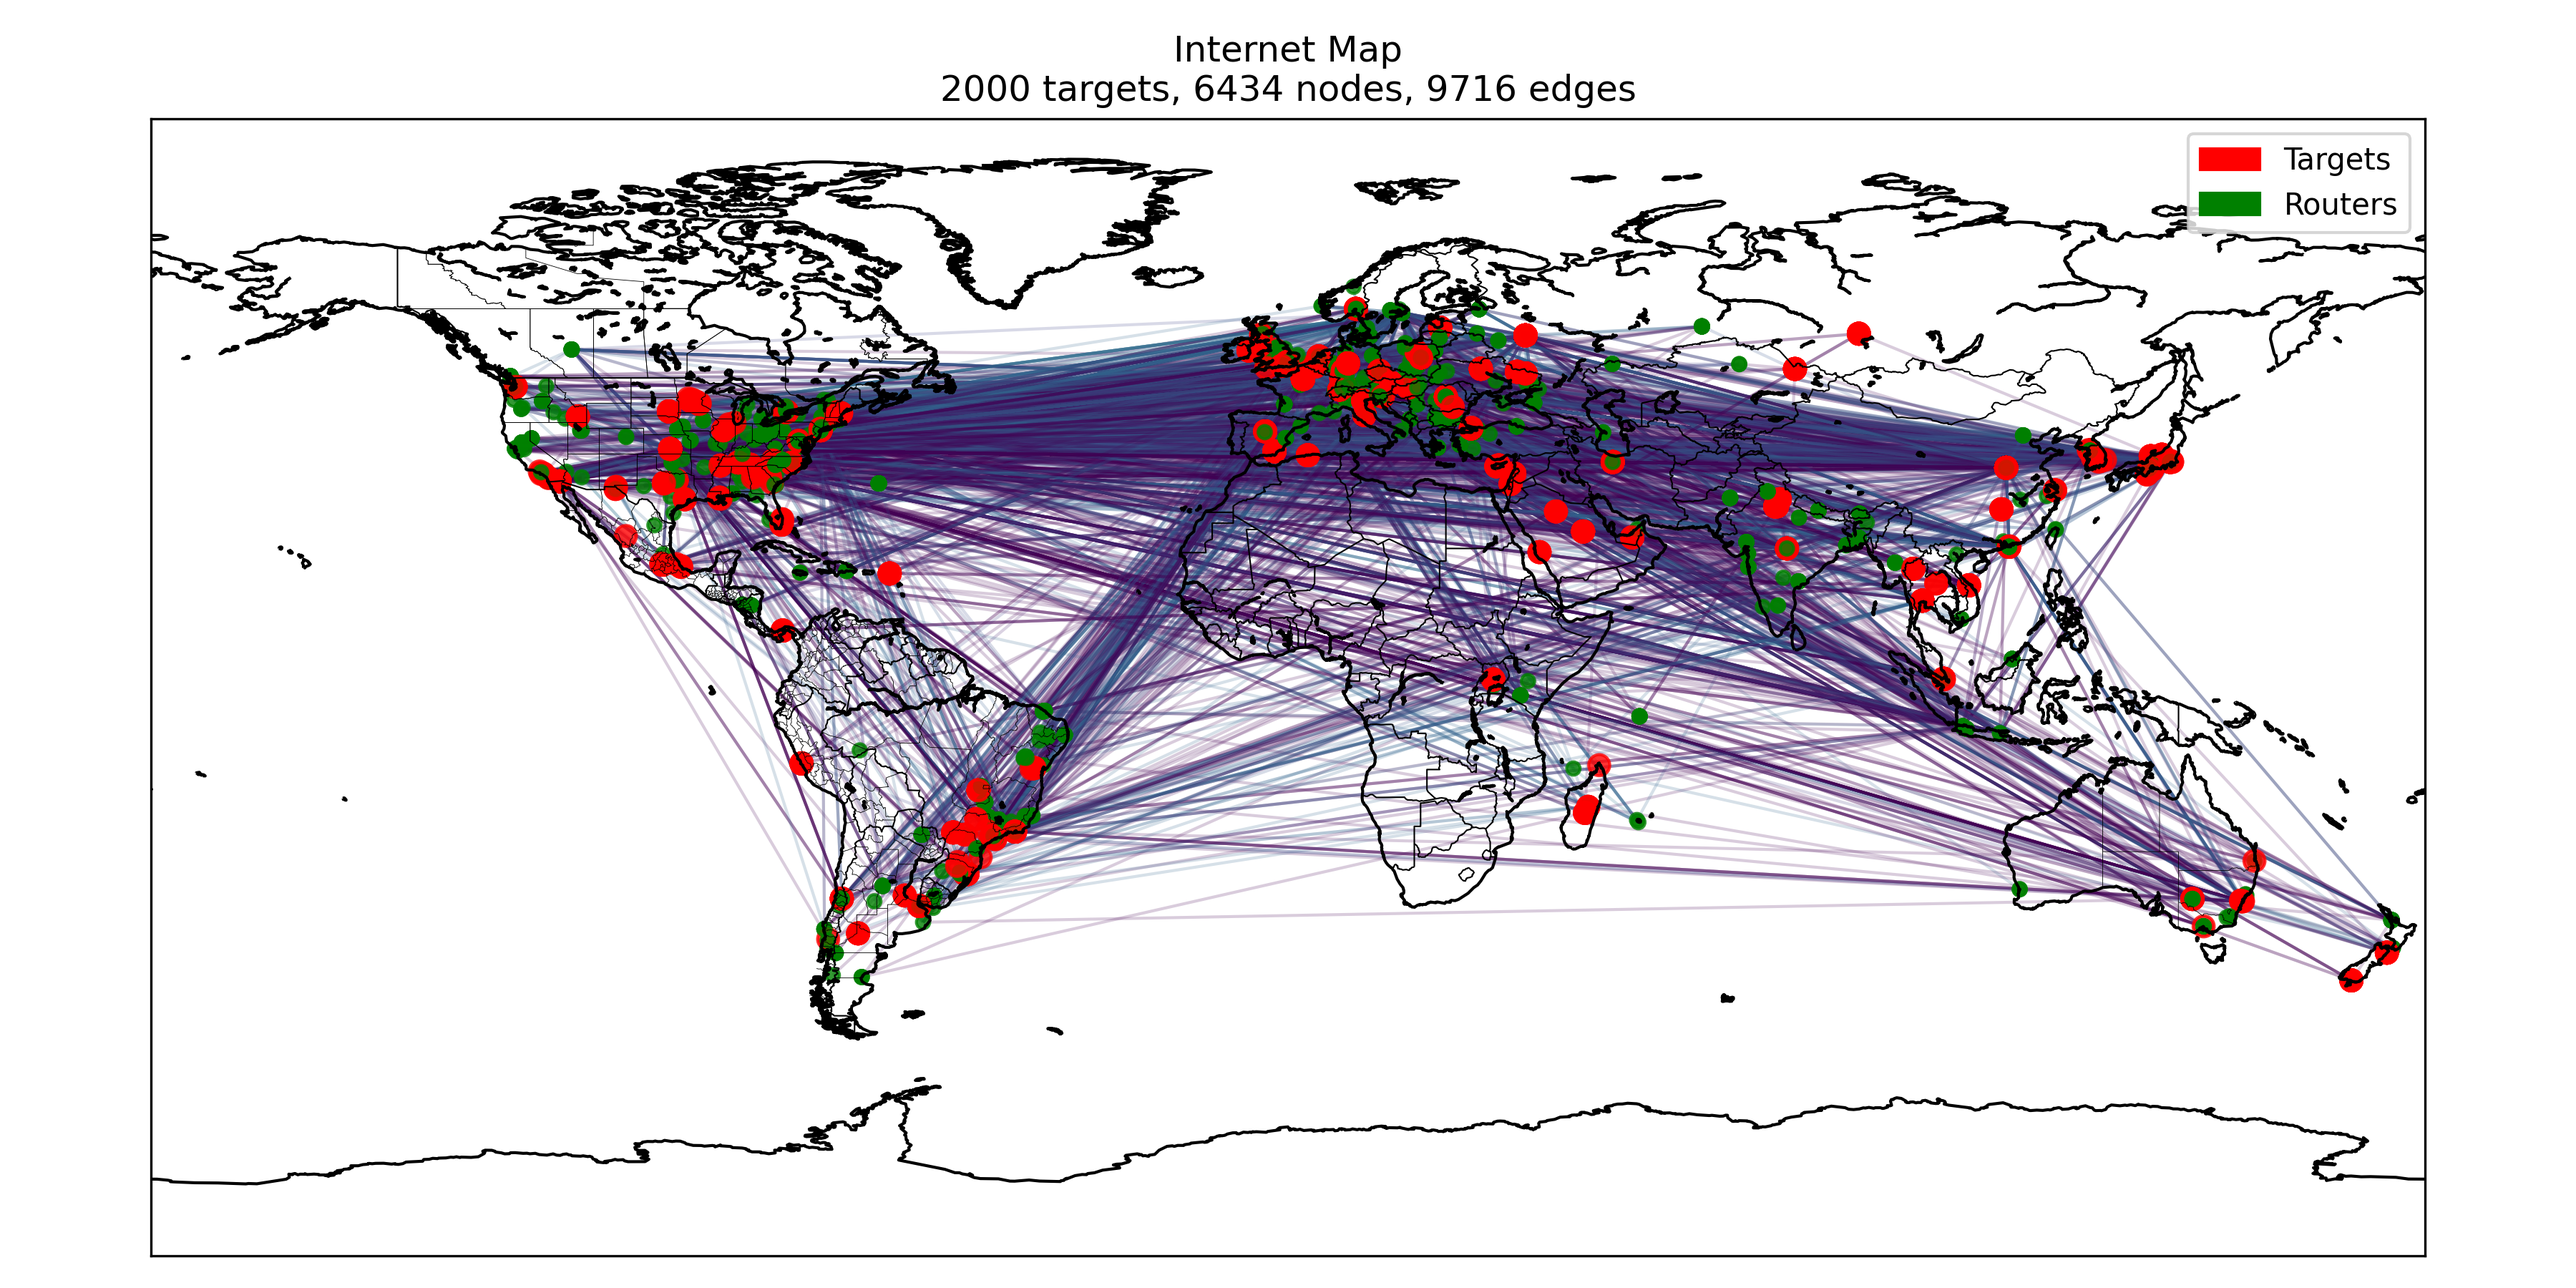
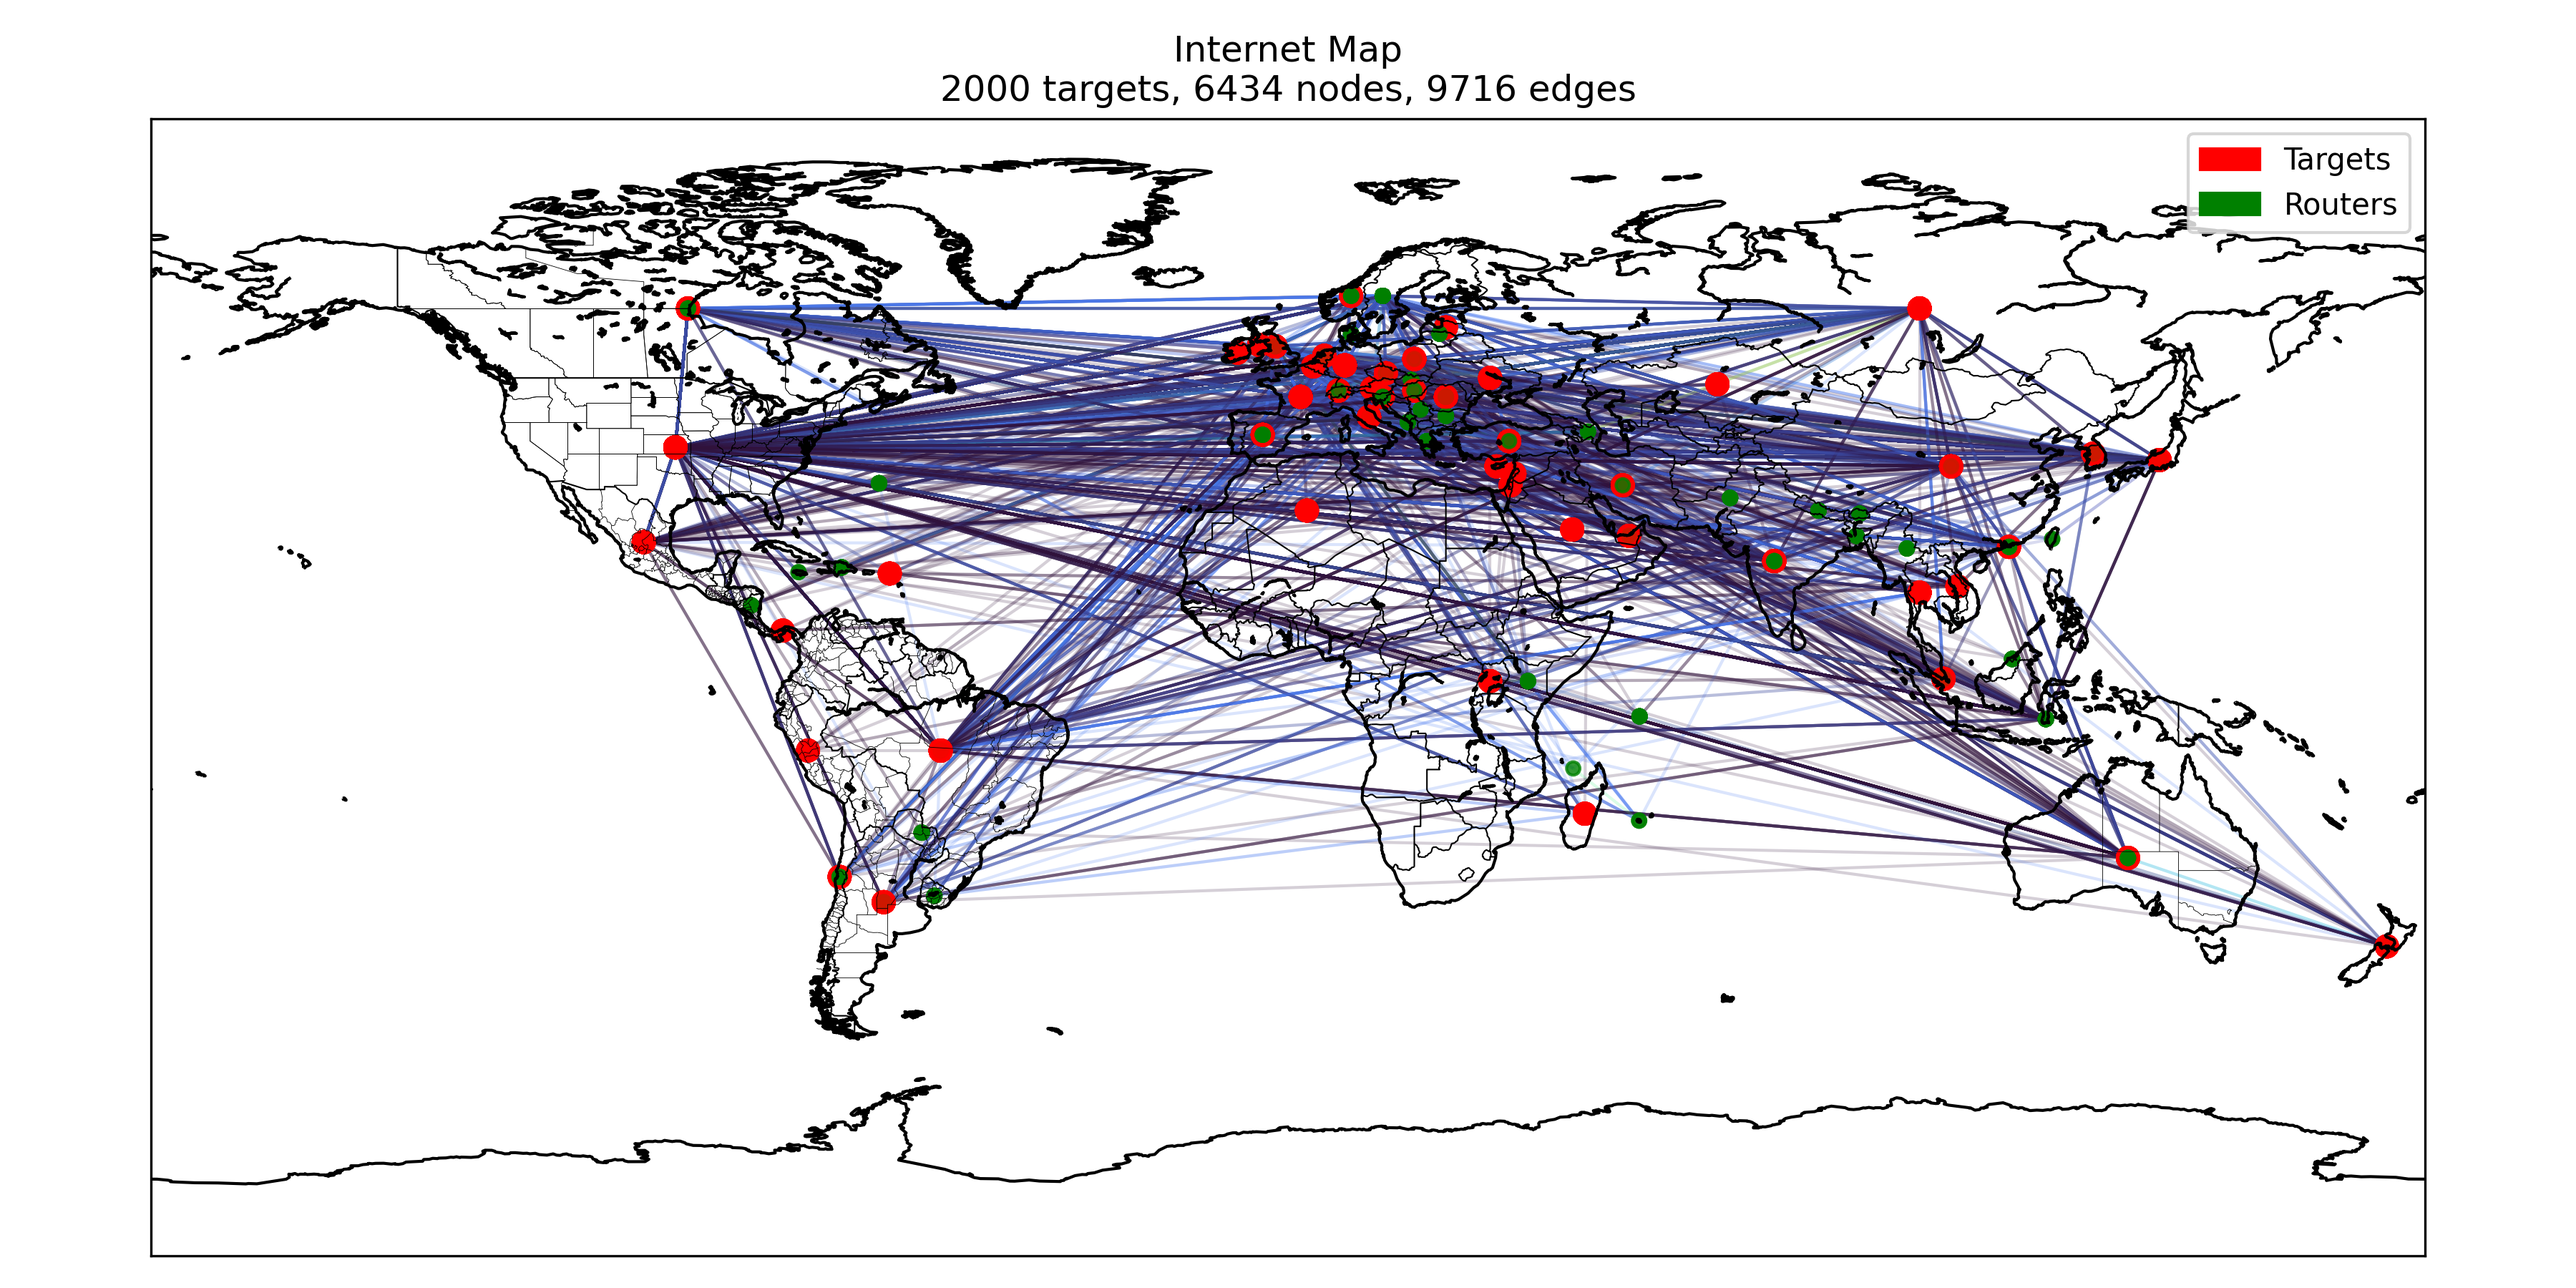
commit

Changed region(s): [[0.1867, 0.2178, 0.9333, 0.7778]]

diff --git a/network_mapper/plot/plot.py b/network_mapper/plot/plot.py
@@ -1,7 +1,8 @@
 import argparse
+import csv
 import json
 import pathlib
-from typing import Dict
+from typing import Dict, Tuple
 
 import geoip2.database
 import geoip2.errors
@@ -18,7 +19,24 @@ def read_json(path: pathlib.Path) -> Dict[str, Dict[str, int]]:
         return json.load(f)
 
 
+def read_countries(path: pathlib.Path) -> Dict[str, Tuple[float, float]]:
+    res = {}
+    with open(path, "r") as f:
+        csv_reader = csv.reader(
+            f,
+            quotechar='"',
+            quoting=csv.QUOTE_ALL,
+            skipinitialspace=True,
+        )
+        for row in csv_reader:
+            if csv_reader.line_num == 1:
+                continue
+            res[row[1]] = (float(row[4]), float(row[5]))
+    return res
+
+
 def main(db_path: str, edges_path: str, targets_path: str) -> None:
+    countries = read_countries(pathlib.Path("./countries.csv"))
     path = pathlib.Path(edges_path)
     data = read_json(path)
     ip_targets = set()
@@ -38,8 +56,10 @@ def main(db_path: str, edges_path: str, targets_path: str) -> None:
     nodes = list(graph.nodes)
     for node in nodes:
         try:
-            response = reader.city(node)
-            pos[node] = (response.location.longitude, response.location.latitude)
+            response = reader.country(node)
+            (lat, lon) = countries[response.country.iso_code]
+            # pos[node] = (response.location.longitude, response.location.latitude)
+            pos[node] = (lon, lat)
         except geoip2.errors.AddressNotFoundError:
             print("Address not found")
             graph.remove_node(node)
@@ -68,7 +88,9 @@ def main(db_path: str, edges_path: str, targets_path: str) -> None:
         edge_color=weights,
         alpha=0.2,
         arrows=False,
-        edge_cmap=matplotlib.cm.viridis,
+        edge_cmap=matplotlib.cm.turbo,
+        edge_vmin=3,
+        edge_vmax=7,
     )
     m.drawcountries(linewidth=0.5)
     m.drawstates(linewidth=0.2)
